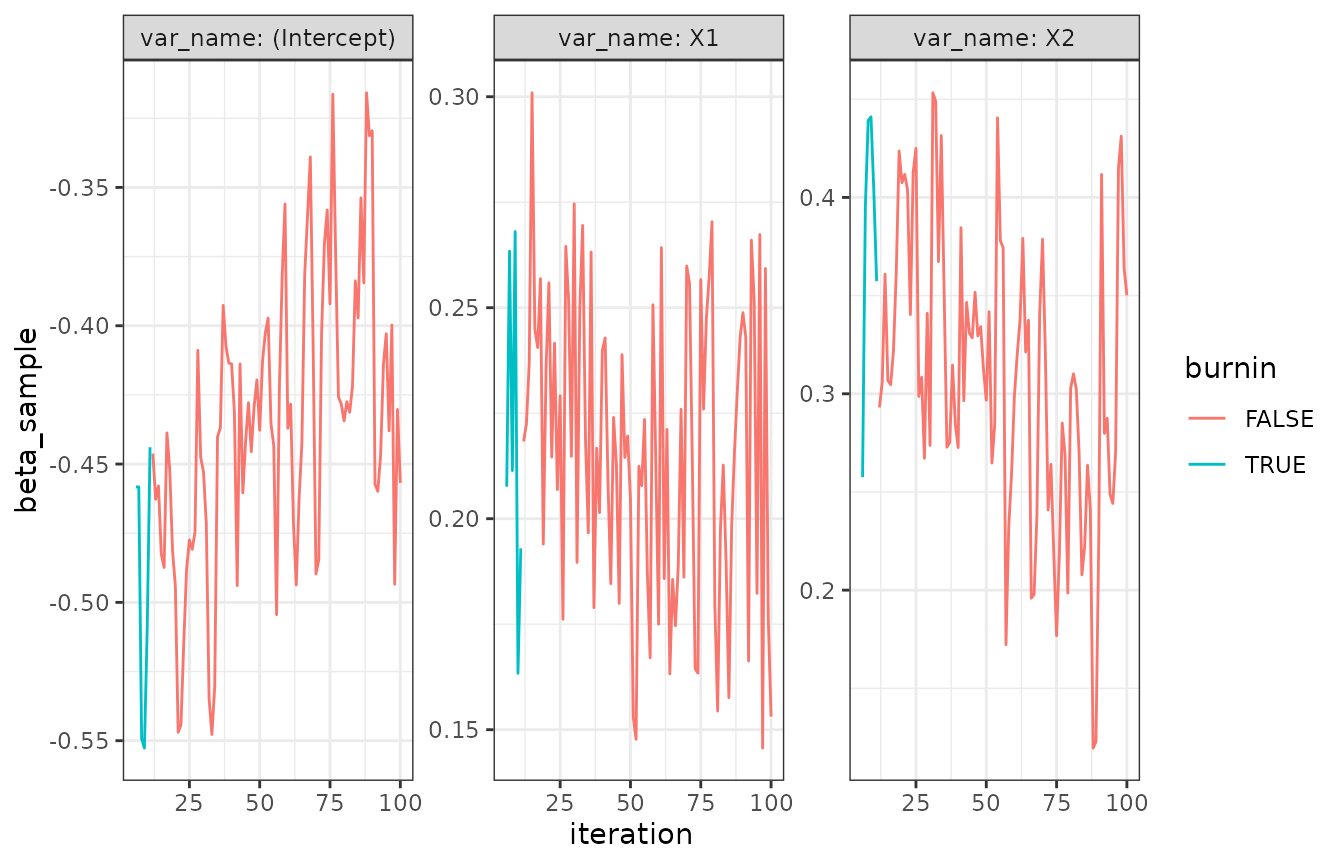
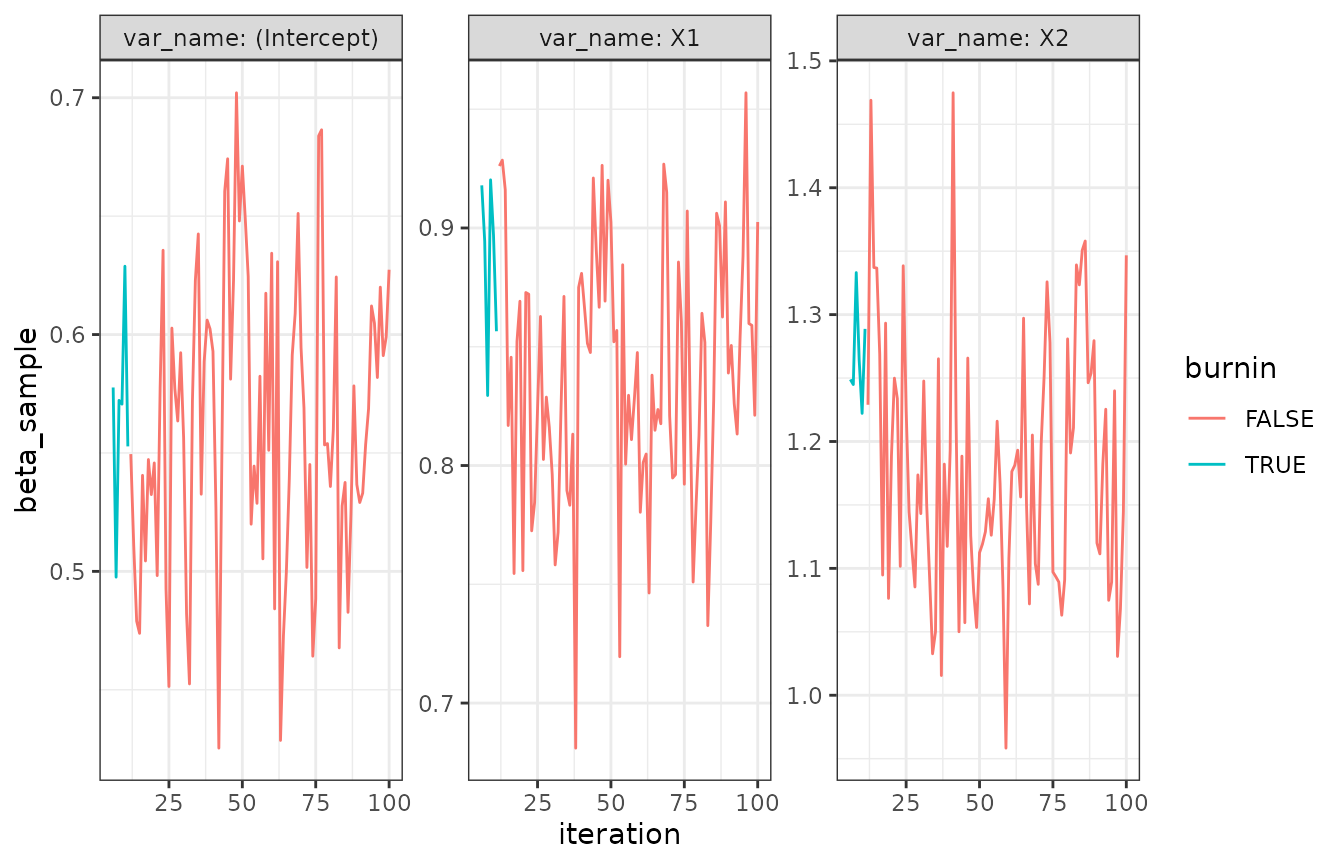
Deploying to gh-pages from @ mathiaslj/mcmcglm@d64d23e252c436bf11150e1f0289a44ff31248d5 🚀

diff --git a/articles/pospkg.html b/articles/pospkg.html
@@ -71,8 +71,9 @@
 <h2 id="family-of-response">Family of response<a class="anchor" aria-label="anchor" href="#family-of-response"></a>
 </h2>
 <p>The family of the response can be any family with an implemented
-<code>family</code> class, in principle. As of now, the implemented
-families in the package are</p>
+<code>family</code> class, in principle (see
+<code><a href="https://rdrr.io/r/stats/family.html" class="external-link">help("family")</a></code>). As of now, the implemented families in the
+package are</p>
 <ul>
 <li>Gaussian</li>
 <li>Binomial</li>
@@ -91,19 +92,14 @@ functions are a <code>character</code>, <code>family</code> function or
 a <code>family</code> class object. The different uses will be seen
 throughout the examples in this vignette but is also available in the
 example section of the <code><a href="../reference/mcmcglm.html">mcmcglm()</a></code> documentation.</p>
-<p>An example for the gaussian family is available in the introductory
-example in the <a href="https://mathiaslj.github.io/mcmcglm/index.html">README</a>.</p>
-<div class="section level3">
-<h3 id="examples-for-different-family-and-link-specifications">Examples for different family (and link) specifications<a class="anchor" aria-label="anchor" href="#examples-for-different-family-and-link-specifications"></a>
-</h3>
+<div class="section level4">
+<h4 id="data-simulation-for-examples">Data simulation for examples<a class="anchor" aria-label="anchor" href="#data-simulation-for-examples"></a>
+</h4>
 <p>In order to show that the package provides samples from the target
 posterior distribution, we simulate data for each scenario with known
 <math display="inline" xmlns="http://www.w3.org/1998/Math/MathML"><semantics><mi>β</mi><annotation encoding="application/x-tex">\beta</annotation></semantics></math>
 vector in order to see if the empirical distribution of each coefficient
 seems to match the value we simulated data from.</p>
-<div class="section level4">
-<h4 id="data-simulation-for-examples">Data simulation for examples<a class="anchor" aria-label="anchor" href="#data-simulation-for-examples"></a>
-</h4>
 <p>We start by generating a linear predictor
 <math display="inline" xmlns="http://www.w3.org/1998/Math/MathML"><semantics><mrow><mi>η</mi><mo>=</mo><mi>X</mi><mi>β</mi></mrow><annotation encoding="application/x-tex">\eta=X\beta</annotation></semantics></math>
 from known values of
@@ -126,10 +122,12 @@ as the relevant parameter of the distribution.</p>
 <span><span class="va">b1</span> <span class="op">&lt;-</span> <span class="fl">1.5</span></span>
 <span><span class="va">b2</span> <span class="op">&lt;-</span> <span class="fl">2</span></span>
 <span><span class="va">lin_pred</span> <span class="op">&lt;-</span> <span class="va">b0</span><span class="op">+</span><span class="va">b1</span><span class="op">*</span><span class="va">x1</span><span class="op">+</span><span class="va">b2</span><span class="op">*</span><span class="va">x2</span></span></code></pre></div>
+<p>An example for the gaussian family is available in the introductory
+example in the <a href="https://mathiaslj.github.io/mcmcglm/index.html">README</a>.</p>
 </div>
-<div class="section level4">
-<h4 id="example-for-binomial-family">Example for binomial family<a class="anchor" aria-label="anchor" href="#example-for-binomial-family"></a>
-</h4>
+<div class="section level3">
+<h3 id="example-for-binomial-family">Example for binomial family<a class="anchor" aria-label="anchor" href="#example-for-binomial-family"></a>
+</h3>
 <p>For the binomial family, the most commonly used link function is the
 logit given by
 <math display="block" xmlns="http://www.w3.org/1998/Math/MathML"><semantics><mtable><mtr><mtd columnalign="right" style="text-align: right"><mi>l</mi><mi>o</mi><mi>g</mi><mi>i</mi><mi>t</mi><mrow><mo stretchy="true" form="prefix">(</mo><mi>p</mi><mo stretchy="true" form="postfix">)</mo></mrow><mo>=</mo><mo>ln</mo><mfrac><mi>p</mi><mrow><mn>1</mn><mo>−</mo><mi>p</mi></mrow></mfrac></mtd></mtr></mtable><annotation encoding="application/x-tex">\begin{align}
@@ -140,39 +138,39 @@ cauchit, log and cloglog (see <code><a href="https://rdrr.io/r/stats/family.html
 information).</p>
 <p>We’ll show an example first for the binomial family with logit link
 function.</p>
-<div class="section level5">
-<h5 id="logit-link-function">Logit link function<a class="anchor" aria-label="anchor" href="#logit-link-function"></a>
-</h5>
+<div class="section level4">
+<h4 id="logit-link-function">Logit link function<a class="anchor" aria-label="anchor" href="#logit-link-function"></a>
+</h4>
 <p>First, we define the data</p>
 <div class="sourceCode" id="cb3"><pre class="downlit sourceCode r">
 <code class="sourceCode R"><span><span class="va">logit_binom</span> <span class="op">&lt;-</span> <span class="fu"><a href="https://rdrr.io/r/stats/family.html" class="external-link">binomial</a></span><span class="op">(</span>link <span class="op">=</span> <span class="st">"logit"</span><span class="op">)</span></span>
 <span></span>
-<span><span class="va">mu_log</span> <span class="op">&lt;-</span> <span class="va">logit_binom</span><span class="op">$</span><span class="fu">linkinv</span><span class="op">(</span><span class="va">lin_pred</span><span class="op">)</span></span>
-<span><span class="va">y_log</span> <span class="op">&lt;-</span> <span class="fu"><a href="https://rdrr.io/r/stats/Binomial.html" class="external-link">rbinom</a></span><span class="op">(</span><span class="va">n</span>, size <span class="op">=</span> <span class="fl">1</span>, prob <span class="op">=</span> <span class="va">mu_log</span><span class="op">)</span></span>
-<span><span class="va">dat_log</span> <span class="op">&lt;-</span> <span class="fu"><a href="https://rdrr.io/r/base/data.frame.html" class="external-link">data.frame</a></span><span class="op">(</span>Y <span class="op">=</span> <span class="va">y_log</span>, X1 <span class="op">=</span> <span class="va">x1</span>, X2 <span class="op">=</span> <span class="va">x2</span><span class="op">)</span></span></code></pre></div>
+<span><span class="va">mu_probit</span> <span class="op">&lt;-</span> <span class="va">logit_binom</span><span class="op">$</span><span class="fu">linkinv</span><span class="op">(</span><span class="va">lin_pred</span><span class="op">)</span></span>
+<span><span class="va">y_probit</span> <span class="op">&lt;-</span> <span class="fu"><a href="https://rdrr.io/r/stats/Binomial.html" class="external-link">rbinom</a></span><span class="op">(</span><span class="va">n</span>, size <span class="op">=</span> <span class="fl">1</span>, prob <span class="op">=</span> <span class="va">mu_probit</span><span class="op">)</span></span>
+<span><span class="va">dat_probit</span> <span class="op">&lt;-</span> <span class="fu"><a href="https://rdrr.io/r/base/data.frame.html" class="external-link">data.frame</a></span><span class="op">(</span>Y <span class="op">=</span> <span class="va">y_probit</span>, X1 <span class="op">=</span> <span class="va">x1</span>, X2 <span class="op">=</span> <span class="va">x2</span><span class="op">)</span></span></code></pre></div>
 <p>Then we fit the <code>mcmcglm</code> and inspect the trace plot.</p>
 <div class="sourceCode" id="cb4"><pre class="downlit sourceCode r">
-<code class="sourceCode R"><span><span class="va">pois</span> <span class="op">&lt;-</span> <span class="fu"><a href="../reference/mcmcglm.html">mcmcglm</a></span><span class="op">(</span>formula <span class="op">=</span> <span class="va">Y</span> <span class="op">~</span> <span class="va">.</span>,</span>
-<span>                 data <span class="op">=</span> <span class="va">dat_log</span>,</span>
-<span>                 family <span class="op">=</span> <span class="st">"poisson"</span>,</span>
+<code class="sourceCode R"><span><span class="va">probit</span> <span class="op">&lt;-</span> <span class="fu"><a href="../reference/mcmcglm.html">mcmcglm</a></span><span class="op">(</span>formula <span class="op">=</span> <span class="va">Y</span> <span class="op">~</span> <span class="va">.</span>,</span>
+<span>                 data <span class="op">=</span> <span class="va">dat_probit</span>,</span>
+<span>                 family <span class="op">=</span> <span class="fu"><a href="https://rdrr.io/r/stats/family.html" class="external-link">binomial</a></span><span class="op">(</span>link <span class="op">=</span> <span class="st">"probit"</span><span class="op">)</span>,</span>
 <span>                 beta_prior <span class="op">=</span> <span class="fu">distributional</span><span class="fu">::</span><span class="fu"><a href="https://pkg.mitchelloharawild.com/distributional/reference/dist_normal.html" class="external-link">dist_normal</a></span><span class="op">(</span>mean <span class="op">=</span> <span class="fl">0</span>, sd <span class="op">=</span> <span class="fl">1</span><span class="op">)</span>,</span>
 <span>                 w <span class="op">=</span> <span class="fl">0.5</span><span class="op">)</span></span>
-<span><span class="va">pois</span></span>
+<span><span class="va">probit</span></span>
 <span><span class="co">#&gt; Object of class 'mcmcglm'</span></span>
 <span><span class="co">#&gt; </span></span>
-<span><span class="co">#&gt; Call:  mcmcglm(formula = Y ~ ., family = "poisson", data = dat_log, </span></span>
-<span><span class="co">#&gt;     beta_prior = distributional::dist_normal(mean = 0, sd = 1), </span></span>
-<span><span class="co">#&gt;     w = 0.5)</span></span>
+<span><span class="co">#&gt; Call:  mcmcglm(formula = Y ~ ., family = binomial(link = "probit"), </span></span>
+<span><span class="co">#&gt;     data = dat_probit, beta_prior = distributional::dist_normal(mean = 0, </span></span>
+<span><span class="co">#&gt;         sd = 1), w = 0.5)</span></span>
 <span><span class="co">#&gt; </span></span>
 <span><span class="co">#&gt; Average of parameter samples:</span></span>
-<span><span class="co">#&gt;   (Intercept)        X1        X2</span></span>
-<span><span class="co">#&gt; 1  -0.4343734 0.2160144 0.3093656</span></span>
-<span><span class="fu"><a href="../reference/trace_plot.html">trace_plot</a></span><span class="op">(</span><span class="va">pois</span><span class="op">)</span></span></code></pre></div>
+<span><span class="co">#&gt;   (Intercept)        X1       X2</span></span>
+<span><span class="co">#&gt; 1   0.5627384 0.8385937 1.178336</span></span>
+<span><span class="fu"><a href="../reference/trace_plot.html">trace_plot</a></span><span class="op">(</span><span class="va">probit</span><span class="op">)</span></span></code></pre></div>
 <p><img src="pospkg_files/figure-html/logit-run-show-1.png" width="672"></p>
 </div>
-<div class="section level5">
-<h5 id="probit-link-function">Probit link function<a class="anchor" aria-label="anchor" href="#probit-link-function"></a>
-</h5>
+<div class="section level4">
+<h4 id="probit-link-function">Probit link function<a class="anchor" aria-label="anchor" href="#probit-link-function"></a>
+</h4>
 <p>First, we define the data</p>
 <div class="sourceCode" id="cb5"><pre class="downlit sourceCode r">
 <code class="sourceCode R"><span><span class="va">probit_binom</span> <span class="op">&lt;-</span> <span class="fu"><a href="https://rdrr.io/r/stats/family.html" class="external-link">binomial</a></span><span class="op">(</span>link <span class="op">=</span> <span class="st">"probit"</span><span class="op">)</span></span>
@@ -195,45 +193,80 @@ function.</p>
 <span><span class="co">#&gt;         sd = 1), w = 0.5)</span></span>
 <span><span class="co">#&gt; </span></span>
 <span><span class="co">#&gt; Average of parameter samples:</span></span>
-<span><span class="co">#&gt;   (Intercept)       X1      X2</span></span>
-<span><span class="co">#&gt; 1   0.9451643 1.426249 1.80181</span></span>
+<span><span class="co">#&gt;   (Intercept)      X1       X2</span></span>
+<span><span class="co">#&gt; 1   0.9740665 1.50066 1.917127</span></span>
 <span><span class="fu"><a href="../reference/trace_plot.html">trace_plot</a></span><span class="op">(</span><span class="va">probit</span><span class="op">)</span></span></code></pre></div>
 <p><img src="pospkg_files/figure-html/probit-run-show-1.png" width="672"></p>
 </div>
 </div>
-<div class="section level4">
-<h4 id="example-for-poisson-family">Example for poisson family<a class="anchor" aria-label="anchor" href="#example-for-poisson-family"></a>
-</h4>
+<div class="section level3">
+<h3 id="example-for-poisson-family">Example for poisson family<a class="anchor" aria-label="anchor" href="#example-for-poisson-family"></a>
+</h3>
 <p>For the poisson family, the most commonly used link function is log,
 which is the only one we will showcase as the above example for the
 binomial family shows how it’s easily possible to specify the link
 function.</p>
-<p>First, we define the data</p>
+<p>Define the data</p>
 <div class="sourceCode" id="cb7"><pre class="downlit sourceCode r">
-<code class="sourceCode R"><span><span class="va">mu_probit</span> <span class="op">&lt;-</span> <span class="fu"><a href="https://rdrr.io/r/base/Log.html" class="external-link">exp</a></span><span class="op">(</span><span class="va">lin_pred</span><span class="op">)</span></span>
-<span><span class="va">y_probit</span> <span class="op">&lt;-</span> <span class="fu"><a href="https://rdrr.io/r/stats/Binomial.html" class="external-link">rbinom</a></span><span class="op">(</span><span class="va">n</span>, size <span class="op">=</span> <span class="fl">1</span>, prob <span class="op">=</span> <span class="va">mu_probit</span><span class="op">)</span></span>
-<span><span class="co">#&gt; Warning in rbinom(n, size = 1, prob = mu_probit): NAs produced</span></span>
-<span><span class="va">dat_probit</span> <span class="op">&lt;-</span> <span class="fu"><a href="https://rdrr.io/r/base/data.frame.html" class="external-link">data.frame</a></span><span class="op">(</span>Y <span class="op">=</span> <span class="va">y_probit</span>, X1 <span class="op">=</span> <span class="va">x1</span>, X2 <span class="op">=</span> <span class="va">x2</span><span class="op">)</span></span></code></pre></div>
+<code class="sourceCode R"><span><span class="va">mu_log</span> <span class="op">&lt;-</span> <span class="fu"><a href="https://rdrr.io/r/base/Log.html" class="external-link">exp</a></span><span class="op">(</span><span class="va">lin_pred</span><span class="op">)</span></span>
+<span><span class="va">y_pois</span> <span class="op">&lt;-</span> <span class="fu"><a href="https://rdrr.io/r/stats/Poisson.html" class="external-link">rpois</a></span><span class="op">(</span><span class="va">n</span>, lambda <span class="op">=</span> <span class="va">mu_log</span><span class="op">)</span></span>
+<span><span class="va">dat_pois</span> <span class="op">&lt;-</span> <span class="fu"><a href="https://rdrr.io/r/base/data.frame.html" class="external-link">data.frame</a></span><span class="op">(</span>Y <span class="op">=</span> <span class="va">y_pois</span>, X1 <span class="op">=</span> <span class="va">x1</span>, X2 <span class="op">=</span> <span class="va">x2</span><span class="op">)</span></span></code></pre></div>
 <p>Then we fit the <code>mcmcglm</code> and inspect the trace plot.</p>
 <div class="sourceCode" id="cb8"><pre class="downlit sourceCode r">
-<code class="sourceCode R"><span><span class="va">probit</span> <span class="op">&lt;-</span> <span class="fu"><a href="../reference/mcmcglm.html">mcmcglm</a></span><span class="op">(</span>formula <span class="op">=</span> <span class="va">Y</span> <span class="op">~</span> <span class="va">.</span>,</span>
-<span>                 data <span class="op">=</span> <span class="va">dat_probit</span>,</span>
-<span>                 family <span class="op">=</span> <span class="fu"><a href="https://rdrr.io/r/stats/family.html" class="external-link">binomial</a></span><span class="op">(</span>link <span class="op">=</span> <span class="st">"probit"</span><span class="op">)</span>,</span>
+<code class="sourceCode R"><span><span class="va">pois</span> <span class="op">&lt;-</span> <span class="fu"><a href="../reference/mcmcglm.html">mcmcglm</a></span><span class="op">(</span>formula <span class="op">=</span> <span class="va">Y</span> <span class="op">~</span> <span class="va">.</span>,</span>
+<span>                 data <span class="op">=</span> <span class="va">dat_pois</span>,</span>
+<span>                 family <span class="op">=</span> <span class="st">"poisson"</span>,</span>
 <span>                 beta_prior <span class="op">=</span> <span class="fu">distributional</span><span class="fu">::</span><span class="fu"><a href="https://pkg.mitchelloharawild.com/distributional/reference/dist_normal.html" class="external-link">dist_normal</a></span><span class="op">(</span>mean <span class="op">=</span> <span class="fl">0</span>, sd <span class="op">=</span> <span class="fl">1</span><span class="op">)</span>,</span>
 <span>                 w <span class="op">=</span> <span class="fl">0.5</span><span class="op">)</span></span>
-<span><span class="va">probit</span></span>
+<span><span class="va">pois</span></span>
 <span><span class="co">#&gt; Object of class 'mcmcglm'</span></span>
 <span><span class="co">#&gt; </span></span>
-<span><span class="co">#&gt; Call:  mcmcglm(formula = Y ~ ., family = binomial(link = "probit"), </span></span>
-<span><span class="co">#&gt;     data = dat_probit, beta_prior = distributional::dist_normal(mean = 0, </span></span>
+<span><span class="co">#&gt; Call:  mcmcglm(formula = Y ~ ., family = "poisson", data = dat_pois, </span></span>
+<span><span class="co">#&gt;     beta_prior = distributional::dist_normal(mean = 0, sd = 1), </span></span>
+<span><span class="co">#&gt;     w = 0.5)</span></span>
+<span><span class="co">#&gt; </span></span>
+<span><span class="co">#&gt; Average of parameter samples:</span></span>
+<span><span class="co">#&gt;   (Intercept)       X1       X2</span></span>
+<span><span class="co">#&gt; 1   0.6204822 1.491828 2.396303</span></span>
+<span><span class="fu"><a href="../reference/trace_plot.html">trace_plot</a></span><span class="op">(</span><span class="va">pois</span><span class="op">)</span></span></code></pre></div>
+<p><img src="pospkg_files/figure-html/poisson-run-show-1.png" width="672"></p>
+</div>
+<div class="section level3">
+<h3 id="example-for-negative-binomial-family">Example for negative binomial family<a class="anchor" aria-label="anchor" href="#example-for-negative-binomial-family"></a>
+</h3>
+<p>Besides the families available in the <a href="help(%22family%22)">stats</a> package, other families have been
+implemented in various packages. Fx. the
+<code><a href="https://rdrr.io/pkg/MASS/man/negative.binomial.html" class="external-link">MASS::negative.binomial()</a></code> function which allows the use of
+the negative binomial family in various inference procedures.</p>
+<p>This distribution is an interesting choice for modelling of count
+data when a Poisson distribution is not appropriate due to the equality
+of the first and second moment of the distribution.</p>
+<p>Below we showcase the use of this family using this package.</p>
+<div class="sourceCode" id="cb9"><pre class="downlit sourceCode r">
+<code class="sourceCode R"><span><span class="va">mu_log</span> <span class="op">&lt;-</span> <span class="fu"><a href="https://rdrr.io/r/base/Log.html" class="external-link">exp</a></span><span class="op">(</span><span class="va">lin_pred</span><span class="op">)</span></span>
+<span><span class="va">y_nbinom</span> <span class="op">&lt;-</span> <span class="fu"><a href="https://rdrr.io/r/stats/NegBinomial.html" class="external-link">rnbinom</a></span><span class="op">(</span><span class="va">n</span>, size <span class="op">=</span> <span class="fl">1</span>, mu <span class="op">=</span> <span class="va">mu_log</span><span class="op">)</span></span>
+<span><span class="va">dat_nbinom</span> <span class="op">&lt;-</span> <span class="fu"><a href="https://rdrr.io/r/base/data.frame.html" class="external-link">data.frame</a></span><span class="op">(</span>Y <span class="op">=</span> <span class="va">y_nbinom</span>, X1 <span class="op">=</span> <span class="va">x1</span>, X2 <span class="op">=</span> <span class="va">x2</span><span class="op">)</span></span>
+<span></span>
+<span><span class="va">theta</span> <span class="op">&lt;-</span> <span class="fl">3</span></span></code></pre></div>
+<p>Then we fit the <code>mcmcglm</code> and inspect the trace plot.</p>
+<div class="sourceCode" id="cb10"><pre class="downlit sourceCode r">
+<code class="sourceCode R"><span><span class="va">nbinom</span> <span class="op">&lt;-</span> <span class="fu"><a href="../reference/mcmcglm.html">mcmcglm</a></span><span class="op">(</span>formula <span class="op">=</span> <span class="va">Y</span> <span class="op">~</span> <span class="va">.</span>,</span>
+<span>                 data <span class="op">=</span> <span class="va">dat_nbinom</span>,</span>
+<span>                 family <span class="op">=</span> <span class="fu">MASS</span><span class="fu">::</span><span class="fu"><a href="https://rdrr.io/pkg/MASS/man/negative.binomial.html" class="external-link">negative.binomial</a></span><span class="op">(</span><span class="va">theta</span><span class="op">)</span>,</span>
+<span>                 beta_prior <span class="op">=</span> <span class="fu">distributional</span><span class="fu">::</span><span class="fu"><a href="https://pkg.mitchelloharawild.com/distributional/reference/dist_normal.html" class="external-link">dist_normal</a></span><span class="op">(</span>mean <span class="op">=</span> <span class="fl">0</span>, sd <span class="op">=</span> <span class="fl">1</span><span class="op">)</span>,</span>
+<span>                 w <span class="op">=</span> <span class="fl">0.5</span><span class="op">)</span></span>
+<span><span class="va">nbinom</span></span>
+<span><span class="co">#&gt; Object of class 'mcmcglm'</span></span>
+<span><span class="co">#&gt; </span></span>
+<span><span class="co">#&gt; Call:  mcmcglm(formula = Y ~ ., family = MASS::negative.binomial(theta), </span></span>
+<span><span class="co">#&gt;     data = dat_nbinom, beta_prior = distributional::dist_normal(mean = 0, </span></span>
 <span><span class="co">#&gt;         sd = 1), w = 0.5)</span></span>
 <span><span class="co">#&gt; </span></span>
 <span><span class="co">#&gt; Average of parameter samples:</span></span>
-<span><span class="co">#&gt;   (Intercept)        X1      X2</span></span>
-<span><span class="co">#&gt; 1   0.8686804 0.9284371 1.59752</span></span>
-<span><span class="fu"><a href="../reference/trace_plot.html">trace_plot</a></span><span class="op">(</span><span class="va">probit</span><span class="op">)</span></span></code></pre></div>
-<p><img src="pospkg_files/figure-html/poisson-run-show-1.png" width="672"></p>
-</div>
+<span><span class="co">#&gt;   (Intercept)       X1       X2</span></span>
+<span><span class="co">#&gt; 1   0.9266945 1.488598 2.072239</span></span>
+<span><span class="fu"><a href="../reference/trace_plot.html">trace_plot</a></span><span class="op">(</span><span class="va">nbinom</span><span class="op">)</span></span></code></pre></div>
+<p><img src="pospkg_files/figure-html/negbin-run-show-1.png" width="672"></p>
 </div>
 </div>
 <div class="section level2">
